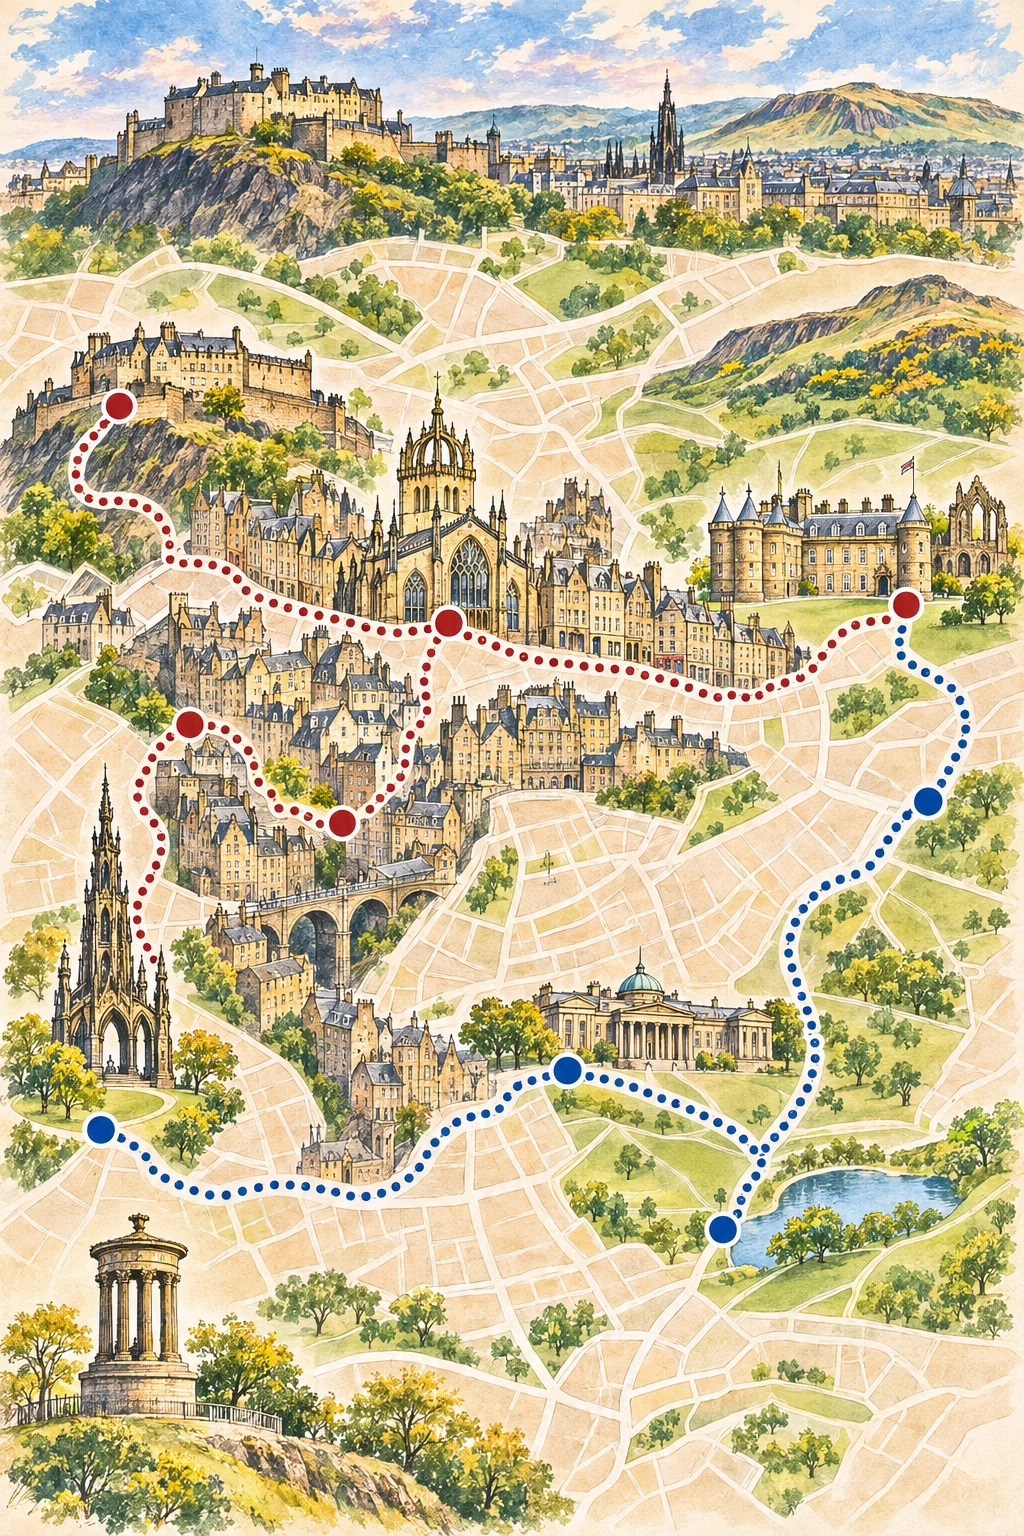
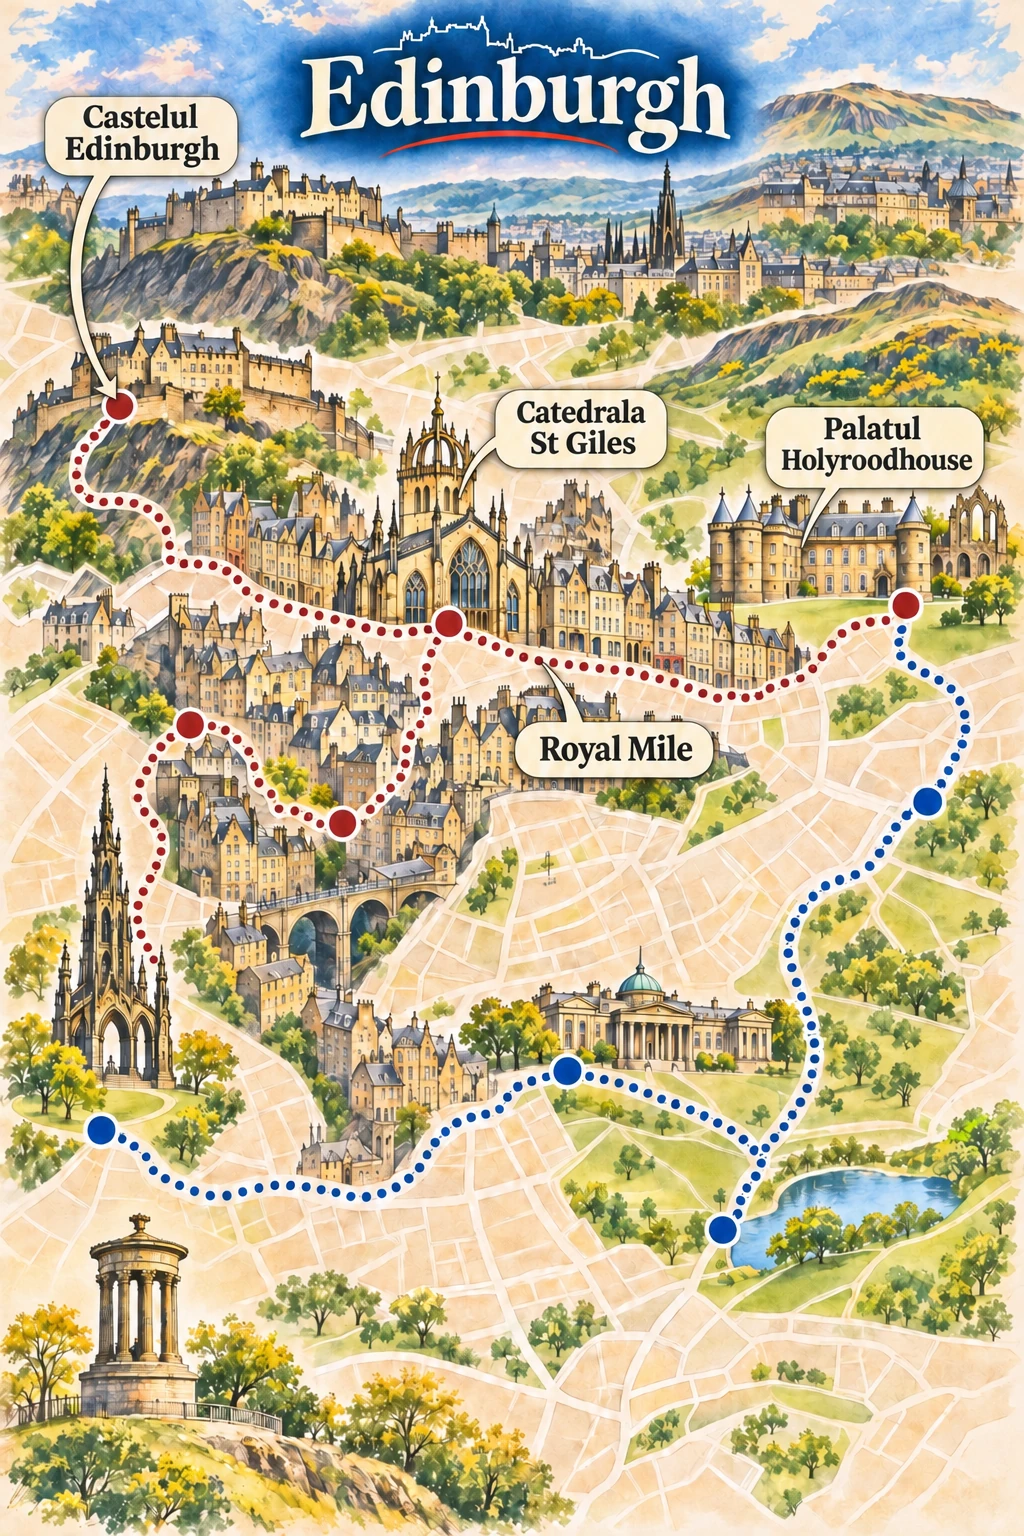
Label Edinburgh guide map

diff --git a/ILUSTRATII.md b/ILUSTRATII.md
@@ -23,9 +23,10 @@ Se adaugă numele obiectivelor direct pe hărțile existente, în stilul aprobat
 - Porto
 - Varșovia
 - Copenhaga
+- Edinburgh
 
 Harta originală pentru Praga avea deja etichete. Celelalte orașe din `assets/guides-prague-style/` necesită în continuare verificare și prelucrare. Actualizează această listă în același commit cu fiecare lot nou.
 
-Ilustrațiile fără etichete sunt păstrate în istoricul Git: pentru Roma și Barcelona folosește fișierul de la commitul `14f016a`, iar pentru Paris, Londra, Lisabona, Berlin și Bruxelles de la `508e691`. Pentru Budapesta, Atena, Veneția, Amsterdam, Viena, Milano, Madrid, Bologna, Lyon, Porto, Varșovia și Copenhaga se pot folosi originalele de la `48efdd5`. Copii locale sunt în `/workspace/guide-batch/original-illustrations` când acel director este disponibil. Păstrează imaginile originale pentru quiz.
+Ilustrațiile fără etichete sunt păstrate în istoricul Git: pentru Roma și Barcelona folosește fișierul de la commitul `14f016a`, iar pentru Paris, Londra, Lisabona, Berlin și Bruxelles de la `508e691`. Pentru Budapesta, Atena, Veneția, Amsterdam, Viena, Milano, Madrid, Bologna, Lyon, Porto, Varșovia, Copenhaga și Edinburgh se pot folosi originalele de la `48efdd5`. Copii locale sunt în `/workspace/guide-batch/original-illustrations` când acel director este disponibil. Păstrează imaginile originale pentru quiz.
 
 Nu modifica funcționalitatea de căutare a zborurilor în cadrul acestei activități.
